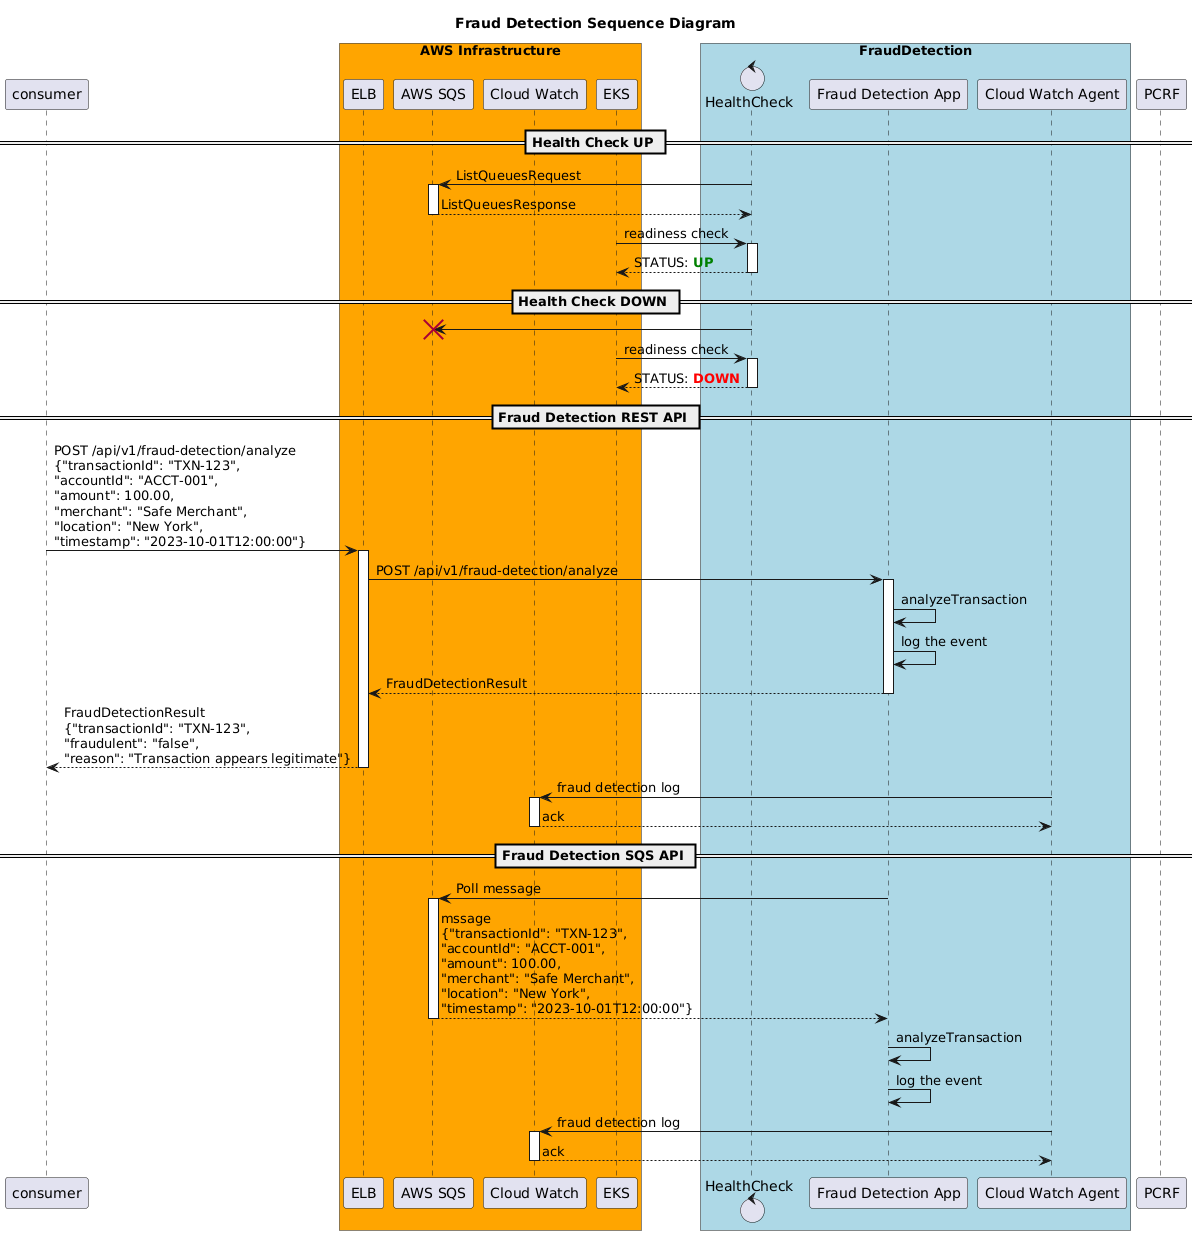
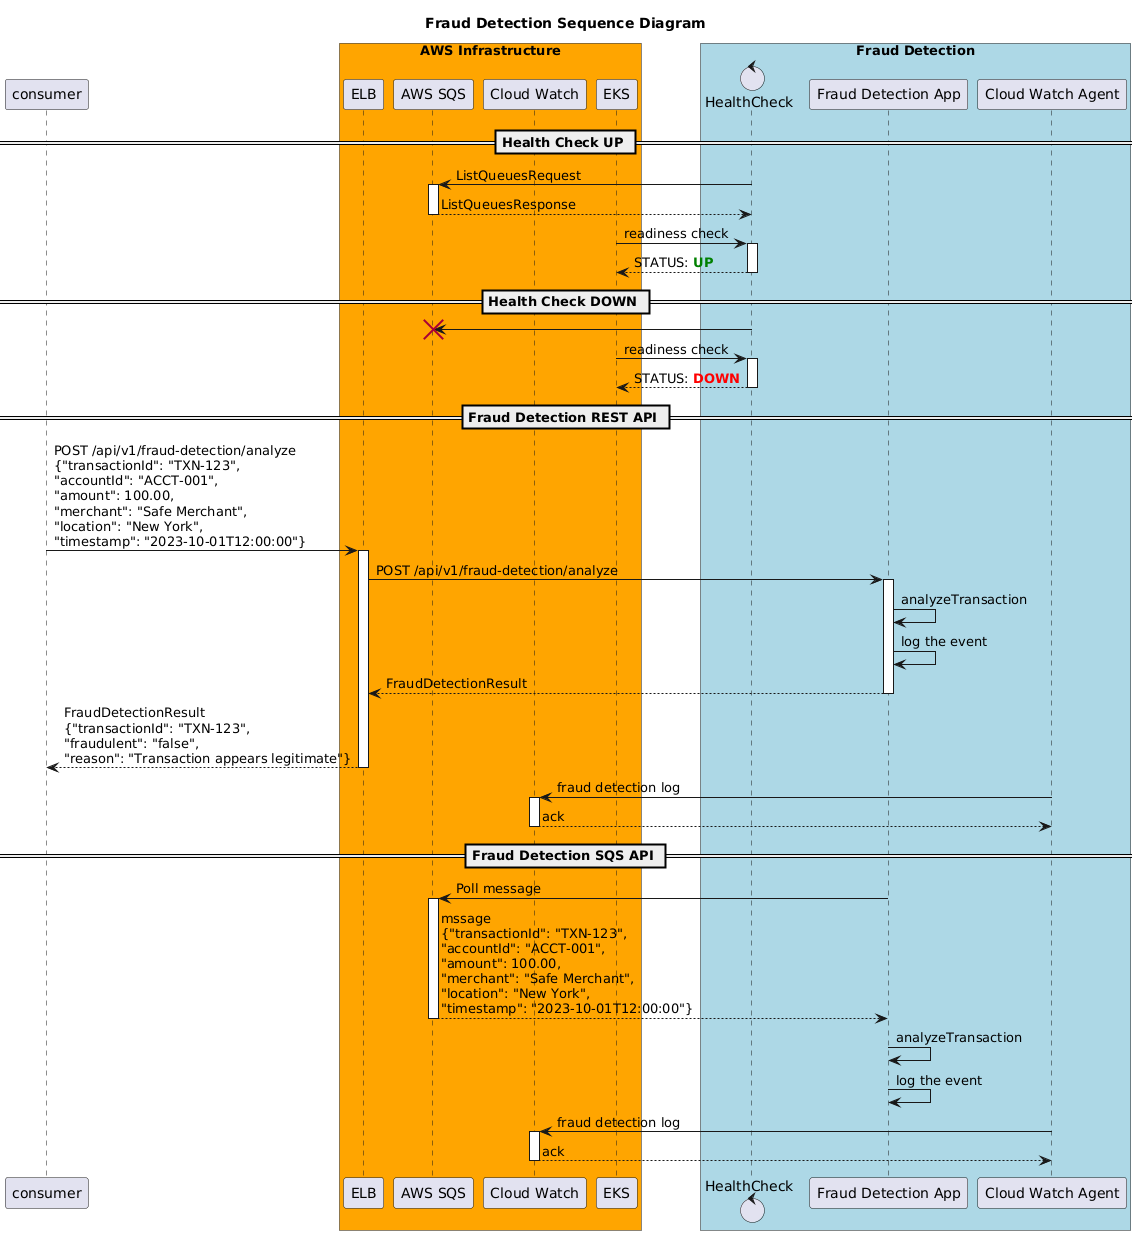
chore: polish a bit on README and architecture diagram.

diff --git a/docs/fraud-detection-plantuml.md b/docs/fraud-detection-plantuml.md
@@ -61,9 +61,6 @@ box "FraudDetection" #LightBlue
   participant "Cloud Watch Agent" as cwa
 end box
 
-
-participant "PCRF" as pcrf
-
 == Health Check UP ==
 hc -> sqs++: ListQueuesRequest
 hc <-- sqs--: ListQueuesResponse
